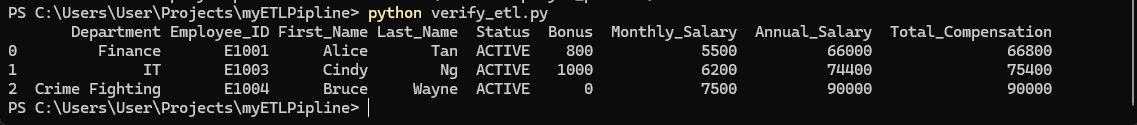
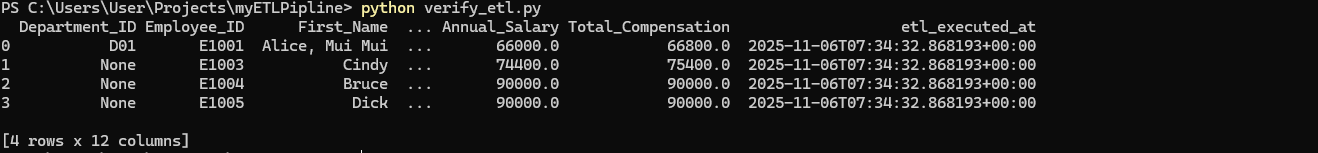
added validations and also logging,

diff --git a/etl_pipeline.py b/etl_pipeline.py
@@ -1,35 +1,188 @@
 import requests
+from requests.exceptions import RequestException
 import pandas as pd
-from sqlalchemy import create_engine
+from sqlalchemy import create_engine, text
+import logging
+import time
+from datetime import datetime, timezone
+
+
+# Config
+DB_URL = "sqlite:///data/workday.db"
+EMP_URL = "http://localhost:5000/raas/employees"
+COMP_URL = "http://localhost:5000/raas/compensation"
+DEPT_URL = "http://localhost:5000/raas/departments"
+MAX_RETRIES = 3
+RETRY_BACKOFF = 2  # seconds (exponential backoff)
+
+# Logging setup
+logger = logging.getLogger("workday_etl")
+logger.setLevel(logging.INFO)
+handler = logging.StreamHandler()
+formatter = logging.Formatter("%(asctime)s %(levelname)s %(message)s")
+handler.setFormatter(formatter)
+logger.addHandler(handler)
+
+engine = create_engine(DB_URL, connect_args={"check_same_thread": False})  # sqlite tweak
+
+
+# Utility: HTTP GET with simple retries/backoff, returns dict
+def http_get_with_retry(url: str):
+    attempt = 0
+    while attempt < MAX_RETRIES:
+        try:
+            logger.info(f"GET {url} (attempt {attempt+1})")
+            r = requests.get(url, timeout=10)
+            r.raise_for_status()
+            return r.json()
+        
+        except RequestException as e:
+            attempt += 1
+            wait = RETRY_BACKOFF ** attempt
+            logger.warning(f"Request failed: {e}. Retrying in {wait}s...")
+            time.sleep(wait)
+    raise RuntimeError(f"Failed to fetch {url} after {MAX_RETRIES} attempts")
 
 # --- Step 1: Extract from multiple RaaS endpoints ---
-url_emp = "http://localhost:5000/raas/employees"
-url_comp = "http://localhost:5000/raas/compensation"
+# Fetch employee, compensation, department data, returns 3 dataframes
+def extract_data():
+    emp_df = pd.DataFrame(http_get_with_retry(EMP_URL).get("Report_Entry", []) )    
+    comp_df = pd.DataFrame(http_get_with_retry(COMP_URL).get("Report_Entry", []) )
+    dept_df = pd.DataFrame(http_get_with_retry(DEPT_URL).get("Report_Entry", []) )
+    logger.info(f"Extracted {len(emp_df)} employees, {len(comp_df)} compensation rows, {len(dept_df)} departments")
+    return emp_df, comp_df, dept_df
 
-emp_df = pd.DataFrame(requests.get(url_emp).json()['Report_Entry'])
-comp_df = pd.DataFrame(requests.get(url_comp).json()['Report_Entry'])
+# --- Step 2: Validate data integrity ---
+# Basic validations + referential integrity checks
+def validate(emp_df: pd.DataFrame, comp_df: pd.DataFrame, dept_df: pd.DataFrame):
+    errors = []
+    # Employee validations
+    # is null or duplicate append to errors list
+    if emp_df['Employee_ID'].isnull().any(): 
+        errors.append("Null Employee_ID in employee dataset")
+    if not emp_df['Employee_ID'].duplicated().any() == False: 
+        # if any duplicates -> add error
+        if emp_df['Employee_ID'].duplicated().any():
+            errors.append("Duplicate Employee_ID found in employees")
 
-print(" Employee Data:")
-print(emp_df)
-print("\n Compensation Data:")
-print(comp_df)
+    # Compensation validations
+    # salary < 0 or null, append to errors list
+    if (comp_df['Monthly_Salary'] <= 0).any(): 
+        errors.append("Monthly_Salary must be > 0 in compensation dataset")
+    if comp_df['Employee_ID'].isnull().any():
+        errors.append("Null Employee_ID in compensation dataset")
 
-# --- Step 2: Transform & Join ---
-# Join on Employee_ID
-merged_df = pd.merge(emp_df, comp_df, on='Employee_ID', how='left')
+    # Departments validations, if null dept_id append to errors list
+    if dept_df['Department_ID'].isnull().any():
+        errors.append("Null Department_ID in departments dataset")
 
-# Add calculated columns
-merged_df['Annual_Salary'] = merged_df['Monthly_Salary'] * 12
-merged_df['Total_Compensation'] = merged_df['Annual_Salary'] + merged_df['Bonus']
+    # Referential integrity checks
+    emp_ids = set(emp_df['Employee_ID']) # unordered unique set of employee ids
+    comp_ids = set(comp_df['Employee_ID']) # unordered unique set of employee ids from compensation table
+    missing_comp = emp_ids - comp_ids
+    if missing_comp:
+        logger.warning(f"Employees without compensation records: {missing_comp}")  # not necessarily fatal
 
-# Filter active employees only
-final_df = merged_df[merged_df['Status'] == 'ACTIVE'].reset_index(drop=True)
+    if errors:
+        raise ValueError("Validation failed: " + "; ".join(errors))
+    logger.info("Validation passed")
 
-print("\n Unified Employee Profile:")
-print(final_df)
+# --- Step 3: Transform + Load ---
+# Transform + join
+def transform(emp_df: pd.DataFrame, comp_df: pd.DataFrame, dept_df: pd.DataFrame) -> pd.DataFrame:
+    # Merge datasets
+    merged = pd.merge(emp_df, comp_df, on='Employee_ID', how='left')
+    merged = pd.merge(merged, dept_df[['Department_ID', 'Department_Name']], on='Department_ID', how='left')
 
-# --- Step 3: Load into database ---
-engine = create_engine('sqlite:///data/workday.db')
-final_df.to_sql('employee_profile', con=engine, if_exists='replace', index=False)
+    # Fill defaults
+    merged['Monthly_Salary'] = merged['Monthly_Salary'].fillna(0).astype(float)
+    merged['Bonus'] = merged['Bonus'].fillna(0).astype(float)
 
-print("\n Loaded unified employee profile into database (table: employee_profile)")
+    # Calculated fields
+    merged['Annual_Salary'] = merged['Monthly_Salary'] * 12
+    merged['Total_Compensation'] = merged['Annual_Salary'] + merged['Bonus']
+
+    # Filter active employees
+    merged = merged[merged['Status'] == 'ACTIVE'].reset_index(drop=True)
+
+    # Add ETL metadata
+    merged['etl_executed_at'] = datetime.now(timezone.utc).isoformat()
+
+    logger.info(f"Transformed data; {len(merged)} active rows ready to load")
+    return merged
+
+# --- Step 4: Load into SQLite DB ---
+# Load: write to DB and insert an etl_runs record
+def load(df: pd.DataFrame, run_meta: dict):
+    with engine.begin() as conn:
+        # create or replace employee_profile
+        df.to_sql('employee_profile', con=conn, if_exists='replace', index=False)
+
+        # create etl_runs table if not exists
+        conn.execute(text("""
+            CREATE TABLE IF NOT EXISTS etl_runs (
+                run_id INTEGER PRIMARY KEY AUTOINCREMENT,
+                started_at TEXT,
+                ended_at TEXT,
+                status TEXT,
+                rows_loaded INTEGER,
+                notes TEXT
+            )
+        """))
+
+        conn.execute(
+            text("INSERT INTO etl_runs (started_at, ended_at, status, rows_loaded, notes) VALUES (:started_at, :ended_at, :status, :rows_loaded, :notes)"),
+            run_meta
+        )
+    logger.info(f"Loaded {len(df)} rows into employee_profile and recorded ETL run")
+
+    # Main runner with error handling and metadata
+    # main etl to extract, validate and then transform + Load
+def run_etl():
+    started_at = datetime.now(timezone.utc).isoformat()
+    status = "SUCCESS"
+    notes = ""
+    rows_loaded = 0
+    try:
+        emp_df, comp_df, dept_df = extract_data() # Step 1 extract
+        validate(emp_df, comp_df, dept_df) # step 2 validate
+        final_df = transform(emp_df, comp_df, dept_df) # step 3 transform
+        rows_loaded = len(final_df)
+        load(final_df, {                # Step 4 load
+            "started_at": started_at,
+            "ended_at": datetime.now(timezone.utc).isoformat(),
+            "status": status,
+            "rows_loaded": rows_loaded,
+            "notes": "OK"
+        })
+    except Exception as e:
+        status = "FAILED"
+        notes = str(e)
+        logger.exception("ETL failed")
+        # record failure
+        with engine.begin() as conn:
+            conn.execute(text("""
+                CREATE TABLE IF NOT EXISTS etl_runs (
+                    run_id INTEGER PRIMARY KEY AUTOINCREMENT,
+                    started_at TEXT,
+                    ended_at TEXT,
+                    status TEXT,
+                    rows_loaded INTEGER,
+                    notes TEXT
+                )
+            """))
+            conn.execute(text("INSERT INTO etl_runs (started_at, ended_at, status, rows_loaded, notes) VALUES (:started_at, :ended_at, :status, :rows_loaded, :notes)"),
+                         {
+                             "started_at": started_at,
+                             "ended_at": datetime.now(timezone.utc).isoformat(),
+                             "status": status,
+                             "rows_loaded": rows_loaded,
+                             "notes": notes
+                         })
+        raise
+    return {"started_at": started_at, "ended_at": datetime.now(timezone.utc).isoformat(), "status": status, "rows_loaded": rows_loaded, "notes": notes}
+
+# If run directly, run etl
+if __name__ == "__main__":
+    result = run_etl()
+    logger.info(f"ETL run complete: {result}")

diff --git a/mockServer.py b/mockServer.py
@@ -2,18 +2,25 @@ from flask import Flask, jsonify
 
 app = Flask(__name__)
 
+# Mock endpoint for employee data
 @app.route('/raas/employees', methods=['GET'])
 def get_employees():
     data = {
         "Report_Entry": [
-            {"Employee_ID": "E1001", "First_Name": "Alice", "Last_Name": "Tan", "Department": "Finance", "Status": "ACTIVE"},
-            {"Employee_ID": "E1002", "First_Name": "Bob", "Last_Name": "Lim", "Department": "HR", "Status": "INACTIVE"},
-            {"Employee_ID": "E1003", "First_Name": "Cindy", "Last_Name": "Ng", "Department": "IT", "Status": "ACTIVE"},
-            {"Employee_ID": "E1004", "First_Name": "Bruce", "Last_Name": "Wayne", "Department": "Crime Fighting", "Status": "ACTIVE"}
+            {"Employee_ID": "E1001", "First_Name": "Alice, Mui Mui", "Last_Name": "Tan", "Department_ID": "D01", "Status": "ACTIVE"},
+            {"Employee_ID": "E1002", "First_Name": "Bobby, Kwan Yew", "Last_Name": "Lim", "Department": "D02", "Status": "INACTIVE"},
+            {"Employee_ID": "E1003", "First_Name": "Cindy", "Last_Name": "Ng", "Department": "D03", "Status": "ACTIVE"},
+            {"Employee_ID": "E1004", "First_Name": "Bruce", "Last_Name": "Wayne", "Department": "D04", "Status": "ACTIVE"},
+            {"Employee_ID": "E1005", "First_Name": "Dick", "Last_Name": "Grayson", "Department": "D04", "Status": "ACTIVE"}
         ]
     }
     return jsonify(data)
+# jsonify() is a built-in Flask function that converts Python dictionaries and objects into JSON response objects. 
+# It also automatically sets:
+# The correct Content-Type header (application/json)
+# Proper HTTP status codes (default: 200 OK)
 
+# Mock endpoint for compensation /salary data
 @app.route('/raas/compensation', methods=['GET'])
 def get_compensation():
     data = {
@@ -21,7 +28,22 @@ def get_compensation():
             {"Employee_ID": "E1001", "Monthly_Salary": 5500, "Bonus": 800},
             {"Employee_ID": "E1002", "Monthly_Salary": 4700, "Bonus": 500},
             {"Employee_ID": "E1003", "Monthly_Salary": 6200, "Bonus": 1000},
-            {"Employee_ID": "E1004", "Monthly_Salary": 7500, "Bonus": 0}
+            {"Employee_ID": "E1004", "Monthly_Salary": 7500, "Bonus": 0},
+            {"Employee_ID": "E1005", "Monthly_Salary": 7500, "Bonus": 0}
+        ]
+    }
+    return jsonify(data)
+
+# Mock Endpoint for department data
+@app.route('/raas/departments', methods=['GET'])
+def get_departments():
+    data = {
+        "Report_Entry": [
+            {"Department_ID": "D01", "Department_Name": "Finance", "Manager_ID": "E1001"},
+            {"Department_ID": "D02", "Department_Name": "HR", "Manager_ID": "E1002"},
+            {"Department_ID": "D03", "Department_Name": "IT", "Manager_ID": "E1003"},
+            {"Department_ID": "D04", "Department_Name": "Crime Fighting", "Manager_ID": "E1004"}
+
         ]
     }
     return jsonify(data)
